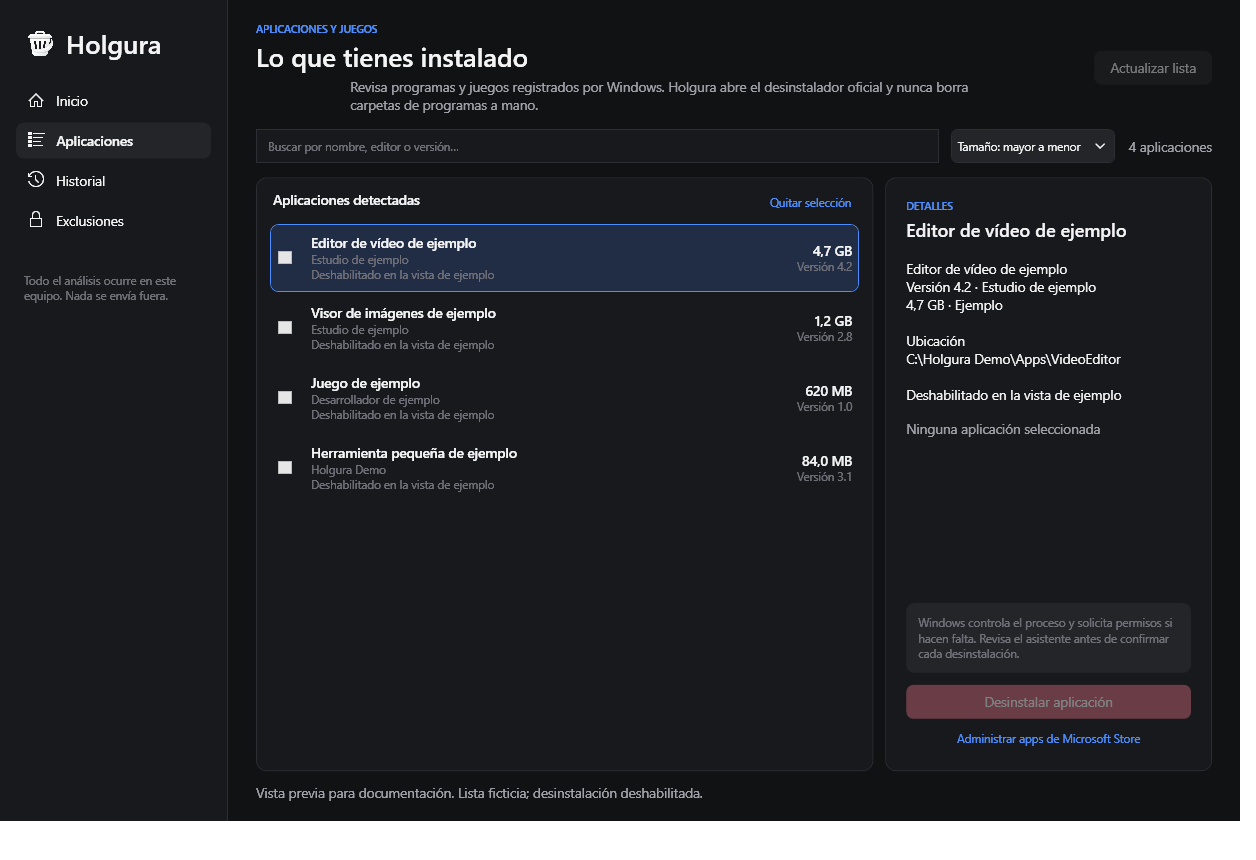
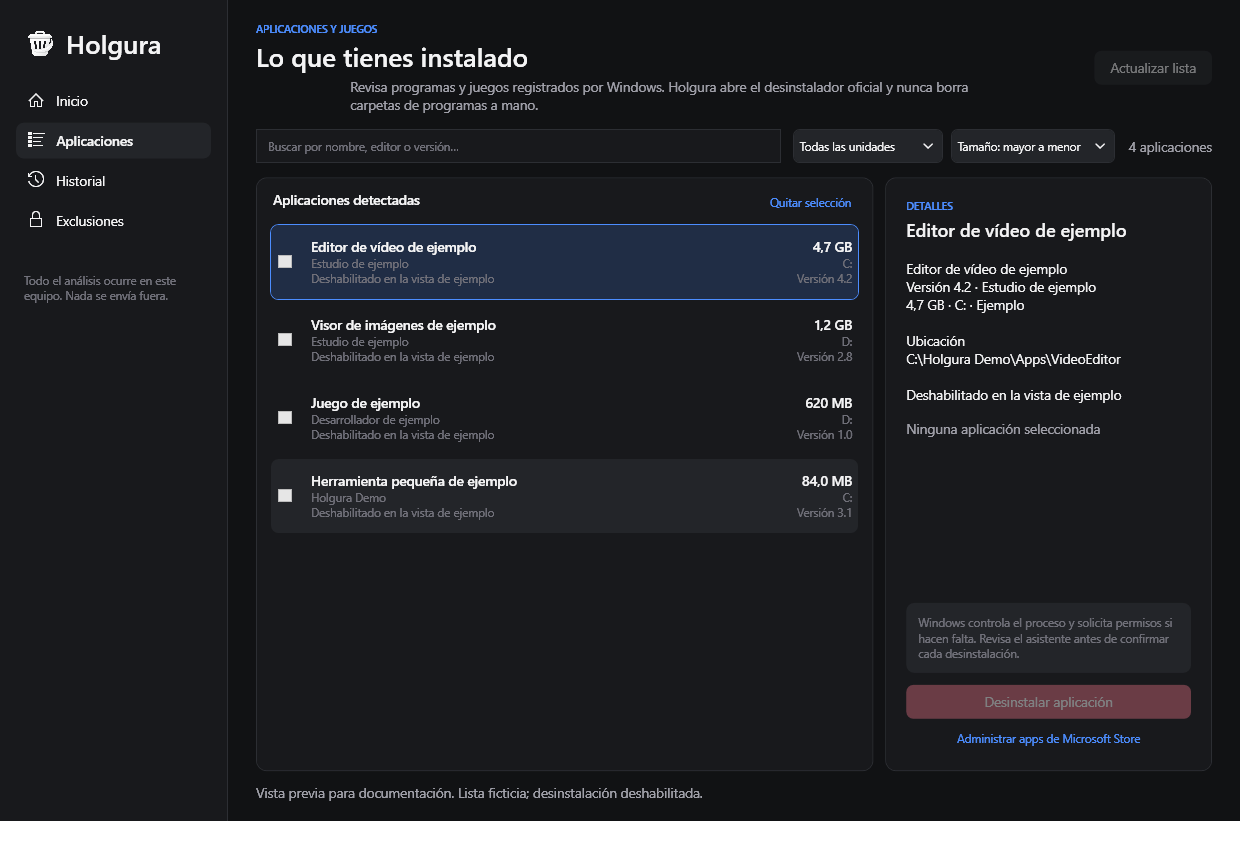
Filter installed apps by drive

diff --git a/Holgura.App/Views/InstalledAppsPage.xaml b/Holgura.App/Views/InstalledAppsPage.xaml
@@ -34,6 +34,7 @@
                 <ColumnDefinition Width="*" />
                 <ColumnDefinition Width="Auto" />
                 <ColumnDefinition Width="Auto" />
+                <ColumnDefinition Width="Auto" />
             </Grid.ColumnDefinitions>
             <Grid>
                 <TextBox Text="{Binding FilterText, UpdateSourceTrigger=PropertyChanged}"
@@ -56,11 +57,16 @@
                     </TextBlock.Style>
                 </TextBlock>
             </Grid>
-            <ComboBox Grid.Column="1" ItemsSource="{Binding SortModes}"
+            <ComboBox Grid.Column="1" ItemsSource="{Binding DriveFilterOptions}"
+                      SelectedItem="{Binding DriveFilter, Mode=TwoWay}"
+                      Style="{StaticResource CompactComboBox}" Width="150" Margin="12,0,0,0"
+                      ToolTip="Filtrar aplicaciones por unidad de instalación"
+                      AutomationProperties.Name="Filtrar aplicaciones por unidad" />
+            <ComboBox Grid.Column="2" ItemsSource="{Binding SortModes}"
                       SelectedItem="{Binding SortMode, Mode=TwoWay}"
-                      Style="{StaticResource CompactComboBox}" Width="164" Margin="12,0,0,0"
+                      Style="{StaticResource CompactComboBox}" Width="164" Margin="8,0,0,0"
                       ToolTip="Ordenar aplicaciones por tamaño o nombre" />
-            <TextBlock Grid.Column="2" Text="{Binding VisibleCountText}" Style="{StaticResource Caption}"
+            <TextBlock Grid.Column="3" Text="{Binding VisibleCountText}" Style="{StaticResource Caption}"
                        VerticalAlignment="Center" Margin="14,0,0,0" />
         </Grid>
 
@@ -102,7 +108,7 @@
                         </ListView.ItemContainerStyle>
                         <ListView.ItemTemplate>
                             <DataTemplate>
-                                <Grid MinHeight="54" Margin="2">
+                                <Grid MinHeight="62" Margin="2">
                                     <Grid.ColumnDefinitions>
                                         <ColumnDefinition Width="28" />
                                         <ColumnDefinition Width="*" />
@@ -121,6 +127,7 @@
                                     </StackPanel>
                                     <StackPanel Grid.Column="2" VerticalAlignment="Center" HorizontalAlignment="Right">
                                         <TextBlock Text="{Binding SizeText}" Style="{StaticResource BodyStrong}" HorizontalAlignment="Right" />
+                                        <TextBlock Text="{Binding DriveText}" Style="{StaticResource Tiny}" HorizontalAlignment="Right" />
                                         <TextBlock Text="{Binding VersionText}" Style="{StaticResource Tiny}" HorizontalAlignment="Right" />
                                     </StackPanel>
                                 </Grid>

diff --git a/Holgura.App/ViewModels/InstalledAppsViewModel.cs b/Holgura.App/ViewModels/InstalledAppsViewModel.cs
@@ -6,6 +6,8 @@ namespace Holgura.App.ViewModels;
 
 public sealed partial class InstalledAppsViewModel : ObservableObject
 {
+    private const string AllDrivesFilter = "Todas las unidades";
+
     private static readonly string[] ApplicationSortOptions =
     [
         "Tamaño: mayor a menor",
@@ -29,6 +31,12 @@ public sealed partial class InstalledAppsViewModel : ObservableObject
 
     public IReadOnlyList<string> SortModes => ApplicationSortOptions;
 
+    public IReadOnlyList<string> DriveFilterOptions => new[] { AllDrivesFilter }
+        .Concat(Applications.Select(application => application.DriveText)
+            .Distinct(StringComparer.CurrentCultureIgnoreCase)
+            .OrderBy(drive => drive, StringComparer.CurrentCultureIgnoreCase))
+        .ToArray();
+
     [ObservableProperty]
     private bool _isBusy;
 
@@ -42,6 +50,9 @@ public sealed partial class InstalledAppsViewModel : ObservableObject
 
     [ObservableProperty]
     private string _sortMode = ApplicationSortOptions[0];
+
+    [ObservableProperty]
+    private string _driveFilter = AllDrivesFilter;
 
     [ObservableProperty]
     private string _totalText = "—";
@@ -69,6 +80,16 @@ public sealed partial class InstalledAppsViewModel : ObservableObject
     partial void OnFilterTextChanged(string value) => ApplyFilter();
 
     partial void OnSortModeChanged(string value) => ApplyFilter();
+
+    partial void OnDriveFilterChanged(string value)
+    {
+        foreach (var application in Applications.Where(application => application.IsSelected && !MatchesDrive(application)))
+        {
+            application.IsSelected = false;
+        }
+
+        ApplyFilter();
+    }
 
     partial void OnIsBusyChanged(bool value)
     {
@@ -105,6 +126,12 @@ public sealed partial class InstalledAppsViewModel : ObservableObject
             foreach (var application in scan.Applications)
             {
                 Applications.Add(new InstalledApplicationViewModel(application, UpdateSelection));
+            }
+
+            OnPropertyChanged(nameof(DriveFilterOptions));
+            if (!DriveFilterOptions.Contains(DriveFilter, StringComparer.CurrentCultureIgnoreCase))
+            {
+                DriveFilter = AllDrivesFilter;
             }
 
             _scanWarningText = scan.Warnings.Count == 0
@@ -184,11 +211,11 @@ public sealed partial class InstalledAppsViewModel : ObservableObject
                 "Ejemplo", false, false, "Deshabilitado en la vista de ejemplo"),
             new InstalledApplication(
                 "DEMO\\PhotoViewer", "Visor de imágenes de ejemplo", "2.8", "Estudio de ejemplo",
-                @"C:\Holgura Demo\Apps\PhotoViewer", string.Empty, 1_240L * 1024 * 1024,
+                @"D:\Holgura Demo\Apps\PhotoViewer", string.Empty, 1_240L * 1024 * 1024,
                 "Ejemplo", false, false, "Deshabilitado en la vista de ejemplo"),
             new InstalledApplication(
                 "DEMO\\PuzzleGame", "Juego de ejemplo", "1.0", "Desarrollador de ejemplo",
-                @"C:\Holgura Demo\Apps\PuzzleGame", string.Empty, 620L * 1024 * 1024,
+                @"D:\Holgura Demo\Apps\PuzzleGame", string.Empty, 620L * 1024 * 1024,
                 "Ejemplo", false, false, "Deshabilitado en la vista de ejemplo"),
             new InstalledApplication(
                 "DEMO\\SmallTool", "Herramienta pequeña de ejemplo", "3.1", "Holgura Demo",
@@ -201,6 +228,8 @@ public sealed partial class InstalledAppsViewModel : ObservableObject
             Applications.Add(new InstalledApplicationViewModel(application, UpdateSelection));
         }
 
+        OnPropertyChanged(nameof(DriveFilterOptions));
+        DriveFilter = AllDrivesFilter;
         TotalText = $"{Applications.Count:N0} aplicaciones de ejemplo";
         StatusText = "Vista previa para documentación. Lista ficticia; desinstalación deshabilitada.";
         FilterText = string.Empty;
@@ -215,10 +244,11 @@ public sealed partial class InstalledAppsViewModel : ObservableObject
         VisibleApplications.Clear();
         var query = FilterText.Trim();
         var matchingApplications = Applications.Where(application =>
-                     query.Length == 0 ||
-                     application.DisplayName.Contains(query, StringComparison.CurrentCultureIgnoreCase) ||
-                     application.PublisherText.Contains(query, StringComparison.CurrentCultureIgnoreCase) ||
-                     application.VersionText.Contains(query, StringComparison.CurrentCultureIgnoreCase));
+                     MatchesDrive(application) &&
+                     (query.Length == 0 ||
+                      application.DisplayName.Contains(query, StringComparison.CurrentCultureIgnoreCase) ||
+                      application.PublisherText.Contains(query, StringComparison.CurrentCultureIgnoreCase) ||
+                      application.VersionText.Contains(query, StringComparison.CurrentCultureIgnoreCase)));
         matchingApplications = SortMode switch
         {
             "Tamaño: menor a mayor" => matchingApplications
@@ -259,15 +289,19 @@ public sealed partial class InstalledAppsViewModel : ObservableObject
             : "Desinstalar aplicación";
     }
 
-    public string VisibleCountText => FilterText.Trim().Length == 0
+    public string VisibleCountText => FilterText.Trim().Length == 0 && DriveFilter == AllDrivesFilter
         ? $"{Applications.Count:N0} aplicaciones"
         : $"{VisibleApplications.Count:N0} de {Applications.Count:N0} aplicaciones";
+
+    private bool MatchesDrive(InstalledApplicationViewModel application) =>
+        DriveFilter == AllDrivesFilter ||
+        string.Equals(application.DriveText, DriveFilter, StringComparison.CurrentCultureIgnoreCase);
 
     private static string BuildDetails(InstalledApplicationViewModel application)
     {
         var model = application.Application;
         var location = string.IsNullOrWhiteSpace(model.InstallLocation) ? "Windows no informó la carpeta de instalación." : model.InstallLocation;
         var publisher = string.IsNullOrWhiteSpace(model.Publisher) ? "Editor no informado" : model.Publisher;
-        return $"{model.DisplayName}\n{model.VersionText} · {publisher}\n{model.SizeText} · {model.Scope}\n\nUbicación\n{location}\n\n{application.ProtectionText}";
+        return $"{model.DisplayName}\n{model.VersionText} · {publisher}\n{model.SizeText} · {application.DriveText} · {model.Scope}\n\nUbicación\n{location}\n\n{application.ProtectionText}";
     }
 }

diff --git a/Holgura.App/ViewModels/InstalledApplicationViewModel.cs b/Holgura.App/ViewModels/InstalledApplicationViewModel.cs
@@ -1,3 +1,4 @@
+using System.IO;
 using Holgura.App.Services;
 using Holgura.Core;
 using CommunityToolkit.Mvvm.ComponentModel;
@@ -28,6 +29,8 @@ public sealed partial class InstalledApplicationViewModel : ObservableObject
 
     public string InstallLocation => Application.InstallLocation;
 
+    public string DriveText => GetDriveText(Application.InstallLocation);
+
     public string ProtectionText => Application.IsProjectInfestProtected ? "Protegido · Project Infest" : Application.CanUninstall ? "Desinstalador disponible" : Application.UninstallBlockedReason ?? "No se puede desinstalar desde Holgura";
 
     public bool CanSelect => !Application.IsProjectInfestProtected && Application.CanUninstall;
@@ -36,4 +39,29 @@ public sealed partial class InstalledApplicationViewModel : ObservableObject
     private bool _isSelected;
 
     partial void OnIsSelectedChanged(bool value) => _onSelectionChanged();
+
+    private static string GetDriveText(string installLocation)
+    {
+        if (string.IsNullOrWhiteSpace(installLocation))
+        {
+            return "Unidad no informada";
+        }
+
+        var path = Environment.ExpandEnvironmentVariables(installLocation.Trim().Trim('"'));
+        if (path.StartsWith("\\\\?\\UNC\\", StringComparison.OrdinalIgnoreCase) ||
+            path.StartsWith("\\\\", StringComparison.OrdinalIgnoreCase))
+        {
+            return "Red";
+        }
+
+        if (path.StartsWith("\\\\?\\", StringComparison.OrdinalIgnoreCase))
+        {
+            path = path[4..];
+        }
+
+        return path.Length >= 3 && char.IsLetter(path[0]) && path[1] == ':' &&
+               (path[2] == '\\' || path[2] == '/')
+            ? path[..2].ToUpperInvariant()
+            : "Unidad no informada";
+    }
 }

diff --git a/docs/USER_GUIDE.md b/docs/USER_GUIDE.md
@@ -20,7 +20,7 @@ No se selecciona nada automáticamente. Los elementos bloqueados por exclusiones
 
 ## Aplicaciones y juegos
 
-La pestaña **Aplicaciones** muestra programas que Windows registra en las claves de desinstalación del equipo o del usuario. Puedes buscar por nombre, editor o versión, ordenar por tamaño mayor a menor, menor a mayor o nombre, y revisar la ubicación y el tamaño estimado cuando Windows los informa. Las entradas sin tamaño quedan al final de ambos órdenes por tamaño.
+La pestaña **Aplicaciones** muestra programas que Windows registra en las claves de desinstalación del equipo o del usuario. Puedes buscar por nombre, editor o versión, filtrar por unidad de instalación, ordenar por tamaño mayor a menor, menor a mayor o nombre, y revisar la ubicación y el tamaño estimado cuando Windows los informa. La unidad se calcula a partir de la ruta de instalación que registra Windows; si no la informa, la app indica **Unidad no informada** en vez de adivinar. Al cambiar de unidad, se quita la selección de las aplicaciones que quedan ocultas. Las entradas sin tamaño quedan al final de ambos órdenes por tamaño.
 
 Para desinstalar, selecciona una o varias entradas habilitadas y confirma. Holgura abre sus desinstaladores oficiales de uno en uno; al terminar cada asistente, confirma si quieres iniciar el siguiente. Puedes detener la secuencia en cualquier momento. Holgura no borra manualmente las carpetas de los programas. Las entradas de Project Infest quedan bloqueadas. Si una entrada requiere un intérprete o script, Holgura la deja inhabilitada y explica que debe gestionarse desde Configuración de Windows.
 

diff --git a/README.md b/README.md
@@ -69,8 +69,9 @@ alcanza los archivos visibles y compara tamaño y fecha con el análisis antes d
 
 La pestaña **Aplicaciones** lee las entradas de desinstalación de Windows para el equipo y el
 usuario actual, incluidas las vistas de registro de 32 y 64 bits. Muestra editor, versión, tamaño
-estimado y ruta de instalación cuando Windows los informa. Puedes ordenar por tamaño o nombre y
-filtrar por nombre, editor o versión. Puedes seleccionar varias aplicaciones; Holgura abre sus
+estimado y ruta de instalación cuando Windows los informa. Puedes ordenar por tamaño o nombre,
+filtrar por nombre, editor, versión o unidad y ver en qué disco está cada entrada. Si Windows no
+indica una ruta, aparece como **Unidad no informada**. Puedes seleccionar varias aplicaciones; Holgura abre sus
 desinstaladores oficiales uno a uno y te pide confirmar antes de continuar con el siguiente. La
 secuencia se puede detener, y Holgura nunca borra manualmente una carpeta de programa. Los
 componentes del sistema se ocultan y las entradas de Project Infest quedan bloqueadas.

diff --git a/CHANGELOG.md b/CHANGELOG.md
@@ -9,6 +9,7 @@
 - Inicio ejecuta un análisis de solo lectura al abrirse para mostrar el estado disponible desde el primer momento.
 - Lista virtualizada de archivos por categoría, con rutas, tamaños, fechas y selección individual de varios archivos.
 - Orden de archivos y programas por tamaño ascendente/descendente o por nombre; los elementos sin tamaño informado quedan al final.
+- Las aplicaciones se pueden filtrar por unidad de instalación; las rutas que Windows no informa se muestran como desconocidas, sin suponer un disco.
 - Vista previa limitada a los 2.000 archivos mayores por zona; el análisis conserva las cifras agregadas exactas.
 - Simulación en pantalla, confirmación explícita y estado de operación; análisis y limpieza no bloquean la interfaz.
 - Navegación e interacción con transiciones suaves y estados de carga.
